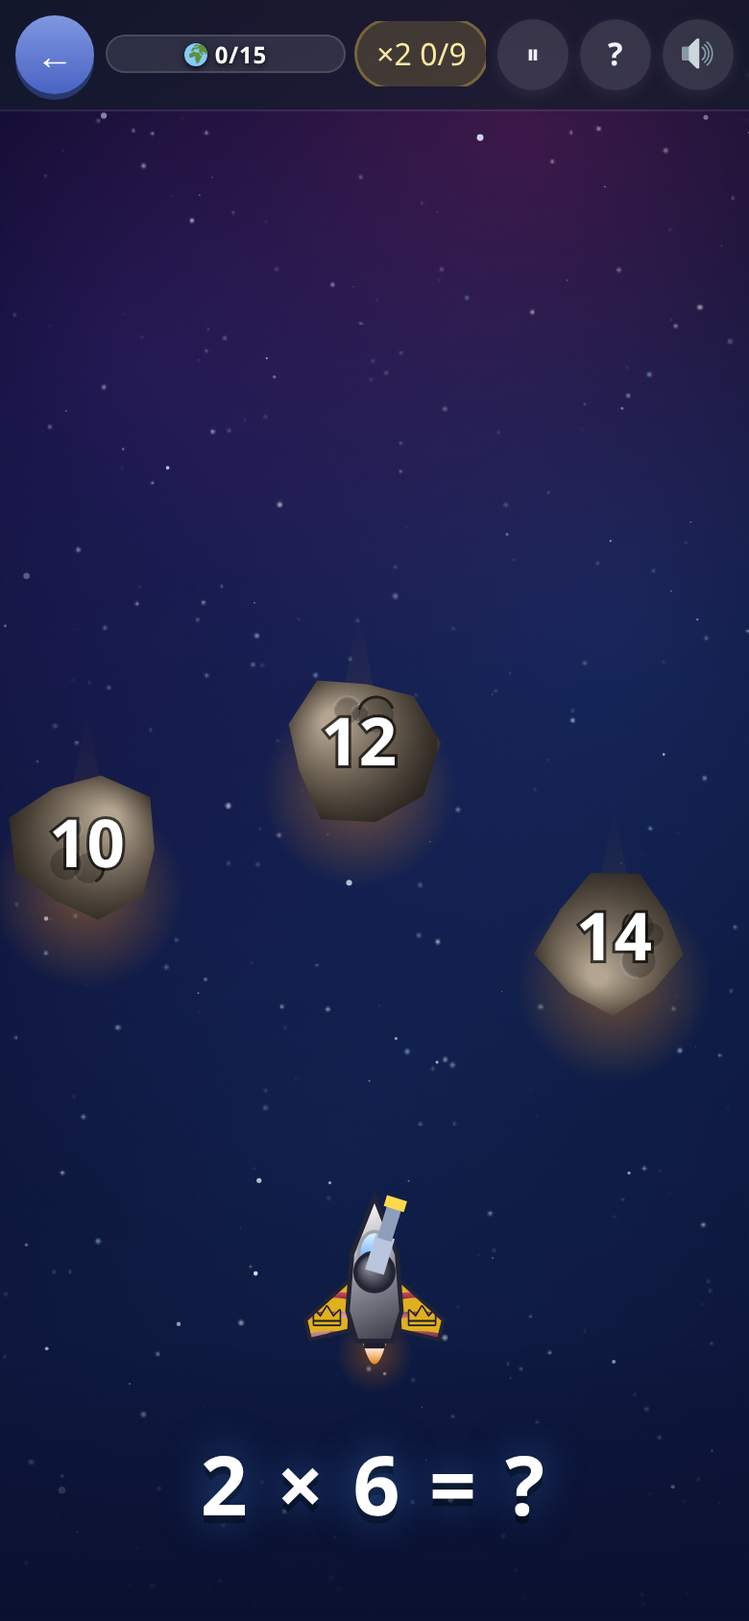
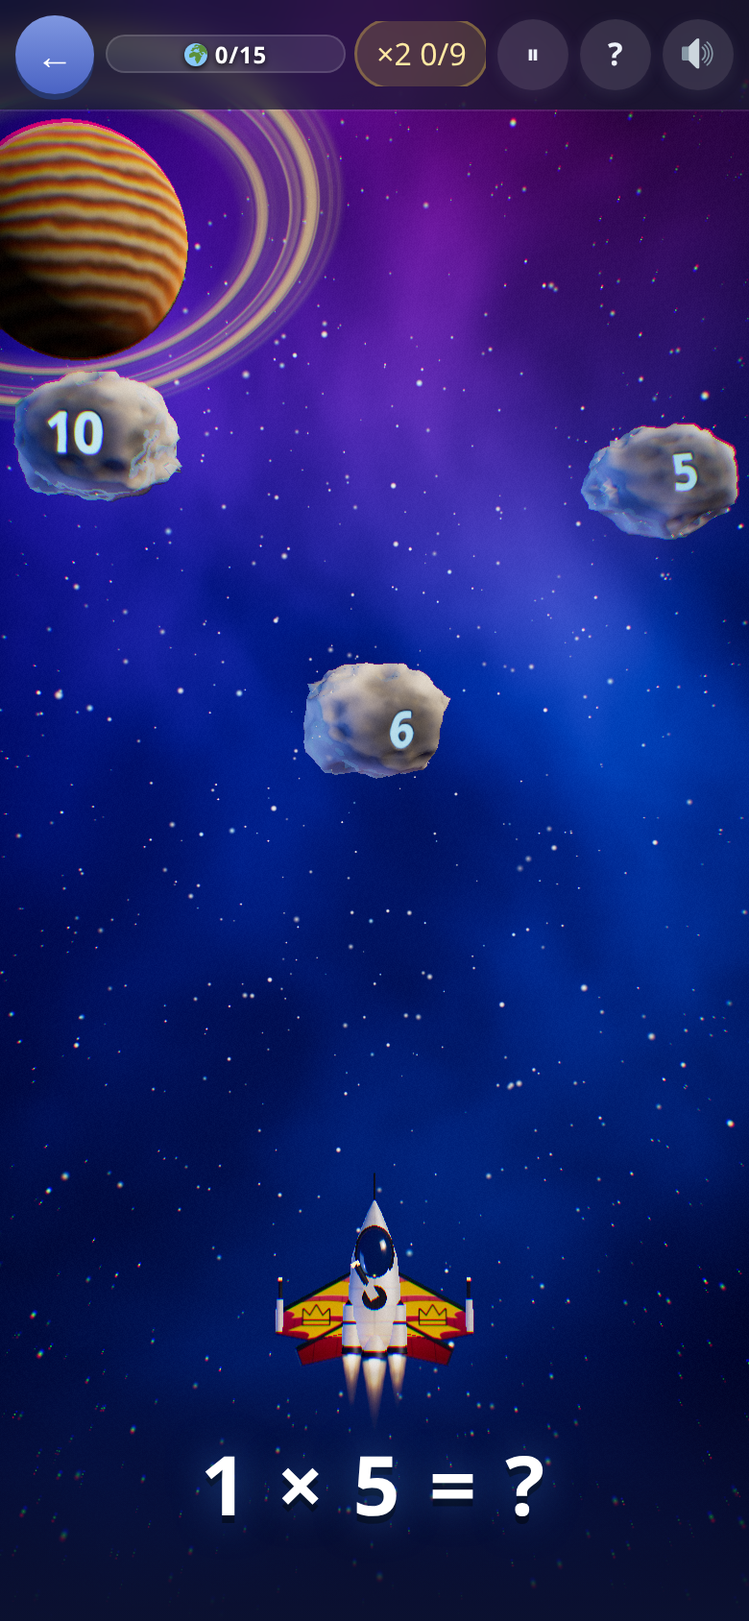
Documenti degli Asteroidi senza la versione 2D né il nome «Asteroidi 3D»; la foto e la clip del README rifatte (npm run scatti)

diff --git a/docs/asteroidi/grafica-3d.md b/docs/asteroidi/grafica-3d.md
@@ -1,30 +1,8 @@
-# Asteroidi 3D: il cielo in 3D, e i comandi del telefono
+# Il cielo in 3D, e i comandi del telefono
 
-**Asteroidi 3D** (`mate3d`) è accanto agli Asteroidi (dal 16/10/2026, non più dietro i giochi in prova): gli stessi Asteroidi
-disegnati in WebGL con three.js, partendo dal prototipo approvato
-(`poc/asteroidi-3d`, ottobre 2026), per provarlo sui telefoni veri. Gli
-**Asteroidi** di sempre (`mate`) restano com'erano, in 2D e coi comandi di
-prima, per i bambini. Le regole del gioco non cambiano: tempi, ritmi,
-`rispostaEntro`, il cronometro che parte quando il sasso giusto è tutto in
-scena, l'SRS, le vite, i gettoni. Cambiano il disegno e i comandi.
-
-## Un gioco accanto all'altro, la stessa partita
-
-- **La carta c'è per tutti**, accanto a quella degli Asteroidi (la riga di `src/data/giochi.js` non è più
-  `sperimentale`). Resta così "per un po'": avanzamento e sosta sono in comune, quindi i due giochi
-  convivono senza danni, e se il 3D desse problemi basta rimettere `sperimentale: true`.
-- **La stessa vista, un disegno diverso**: `App.vue` monta `MathGame.vue`
-  per `mate3d` col prop `disegno: '3d'`. Senza il prop è il 2D di sempre.
-- **Lo stesso avanzamento**: la chiave della campagna resta `mate` (tappe,
-  stelle, hangar, record del volo, monete, sosta). Un gioco non aggiunge
-  campi al profilo, e due copie dello stesso avanzamento si separerebbero.
-  La sosta è una sola: una partita lasciata nel 3D si riprende anche dal 2D
-  e viceversa (i sassi non si salvano, il disegno non conta). La fila e
-  l'età si leggono uguali (`mate3d` in `TAPPE_DEL_GIOCO` e
-  `CONTATORE_VECCHIO` di `portata-giochi.js`).
-- **I comandi nuovi sono solo del 3D** (`comandiNuovi`): negli Asteroidi di
-  sempre si tocca solo sopra il sasso, la nave sta ferma, niente scudo, e i
-  falsi nascono come prima.
+Gli Asteroidi (`mate`) si disegnano in WebGL con three.js, partendo dal prototipo approvato (`poc/asteroidi-3d`, ottobre 2026),
+coi comandi del telefono: la nave si guida col dito e ha lo scudo. Le regole del gioco sono quelle di [volo.md](volo.md): tempi,
+ritmi, `rispostaEntro`, il cronometro che parte quando il sasso giusto è tutto in scena, l'SRS, le vite, i gettoni.
 
 ## Dove sta cosa
 
@@ -39,11 +17,11 @@ scena, l'SRS, le vite, i gettoni. Cambiano il disegno e i comandi.
 | `src/grafica/spazio3d/madre.js` | la nave madre col comandante |
 | `src/grafica/spazio3d/effetti.js` | scintille e fumo, anelli, raggi, cocci |
 | `src/motore/asteroidi/comandi.js` | quale sasso tocca il dito, il falso che urta la nave, le quote dei falsi (puro) |
-| `src/views/MathGame.vue` | col prop `disegno` sceglie chi disegna (`accendi3d`), passa la scena (`disegna3d`), guida la nave |
+| `src/views/MathGame.vue` | accende la tela (`accendi3d`), le passa la scena (`disegna3d`), guida la nave |
 
 ## Chi gioca non disegna
 
-- **La view passa la stessa scena al 3D e al 2D**: nave, sassi, nave madre,
+- **La view passa la scena al pittore**: nave, sassi, nave madre,
   raggi, anelli, particelle, cocci, in pixel dello schermo (`quadro` in
   `MathGame.vue`, un oggetto solo rinfrescato a ogni fotogramma). Il 3D la
   traduce: il piano z = 0 è lo schermo e un pixel vale `K` = 0,01 unità,
@@ -58,21 +36,17 @@ scena, l'SRS, le vite, i gettoni. Cambiano il disegno e i comandi.
   posti, i punti stanno in due `Points` (scintille e fumo), i cocci in un
   `InstancedMesh`.
 
-## Il disegno di riserva
+## Il contesto perso
 
-- **Se WebGL 2 non c'è, o il contesto si perde, si gioca col 2D di
-  sempre** (`grafica/spazio.js`, `cieli.js`, `nave-madre.js`): stesse
-  regole, stessi comandi. Il contesto si chiede a mano prima di three, così
-  senza WebGL non esce niente in console.
-- Negli Asteroidi 3D il 2D fa da riserva finché non si sa che i telefoni
-  veri reggono il 3D; `#tela=2d` lo chiede apposta.
-- La rotta e l'hangar restano in 2D (la nave piccola di `disegnaNave`):
-  il 3D legge la stessa `livrea`.
-- Sotto la rotta e «Cosa so», che coprono tutto, la tela 3D non disegna.
+- **Se il contesto WebGL si perde** (il telefono toglie la memoria alla GPU) il cielo si ferma e compare un tasto che lo
+  riaccende su una tela nuova (un canvas non riprende un contesto perso); la partita intanto resta com'è. Lo stesso, al primo
+  tentativo, se WebGL non c'è.
+- La rotta e l'hangar disegnano la nave piccola in 2D (`disegnaNave` di `grafica/spazio.js`, con le stesse sagome e la stessa
+  `livrea`); la nave grande dell'hangar è quella del pittore 3D.
+- Sotto la rotta e «Cosa so», che coprono tutto, la tela non disegna.
 
 ## I comandi
 
-Come sul telefono, negli Asteroidi 3D (anche quando disegna il 2D di riserva):
 
 - **Premere sopra un sasso, o appena fuori dal bordo** (1,15 del raggio,
   mai meno di 22 px: `TOCCO`), spara a quello: è la risposta, giusta o
@@ -129,24 +103,22 @@ sassi cambia col posto.
 
 ## La nave
 
-- **Le sagome sono quelle del 2D** (`ali`, `strappa`, `SCHEGGE`,
+- **Le sagome sono quelle della nave piccola** (`ali`, `strappa`, `SCHEGGE`,
   `PROPULSORI` di `spazio.js`), estruse: lo strappo è lo stesso, coi denti
-  dove li ha il 2D.
+  negli stessi posti.
 - **I tre stati**: intatta · l'ala sinistra strappata col bordo che arde, i
   due cocci che galleggiano, le scintille, la spia ambra · lo strappo che
   si mangia l'ala, il vetro crepato e rosso, la spia rossa doppia, l'alone
   d'allarme, il motore sinistro a singhiozzo. Il fumo è quello della view.
-- **Le stazze**: navetta (un motore), caccia (due, coi pod in punta d'ala),
-  incrociatore (tre, e la seconda coppia d'ali).
+- **La nave è l'incrociatore** (tre motori e la seconda coppia d'ali) dal primo livello; le sagome della navetta e del caccia
+  restano in `spazio.js`.
 - **La livrea si dipinge sulle ali** con `dipingiAla` e `disegnaStemma` di
   `livrea.js`, su una tela per lato che fa da colore all'ala: lo stemma se
   ne va col pezzo strappato. Scafo, ali e fiamme prendono le tinte di
   `tinteNave`; le tinte lucide fanno il metallo lucido.
 - Botta rossa, riparazione verde, scudo esagonale col gelo.
 
-- **L'hangar usa lo stesso pittore** quando il gioco è in 3D (`tre` in
-  `components/HangarAsteroidi.vue`): una scena con la sola nave sul suo cielo; senza
-  WebGL resta il disegno 2D. Lo scafo a tornio va dal basso al muso: nell'altro verso
+- **L'hangar usa lo stesso pittore** (`components/HangarAsteroidi.vue`): una scena con la sola nave sul suo cielo. Lo scafo a tornio va dal basso al muso: nell'altro verso
   le facce guardano dentro e si vede l'interno dello scafo dietro le ali.
 
 ## Quanto costa
@@ -172,12 +144,12 @@ sassi cambia col posto.
 
 Nei test: `unita/asteroidi-3d` (il dito, l'urto, le quote dei falsi, le
 forme di ogni specie), `integrazione/asteroidi-3d` (col dito vero: il 3D
-acceso e quanto costa, la carta anche coi giochi in prova spenti, il tocco sul
+acceso e quanto costa, una carta sola anche coi giochi in prova spenti, il tocco sul
 giusto, il vuoto che guida, il trascinare, appena fuori dal bordo, lo scudo,
-il giusto addosso alla nave, gli Asteroidi di sempre in 2D, il 2D senza
-WebGL). Bersagli: la tela `[data-tela="3d"|"2d"]`; `window.__mate.grafica()`
+il giusto addosso alla nave, senza WebGL il tasto che riaccende). Bersagli: la tela `[data-tela="3d"]`, il tasto
+`[data-riaccendi-tela]`; `window.__mate.grafica()`
 (`tre`, `chiamate`, `triangoli`, `dpr`, `ms`, `scena`, `disegno`);
 `window.__mate.nave` (`meta`, `urti`, `scudo`); sui sassi `respinto`,
-`rosso`, `urtato`. Il cheat `#mate3d=<tappa>` (o `#mate=` per il 2D; `volo`, `&livello=`, `&vite=`,
-`&madre=1`, `&nave=scafo:oro,…`, `&tela=2d`, `&dpr=2`) in
+`rosso`, `urtato`. Il cheat `#mate=<tappa>` (`volo`, `&livello=`, `&vite=`,
+`&madre=1`, `&nave=scafo:oro,…`, `&dpr=2`) in
 [../core/comandi.md](../core/comandi.md).

diff --git a/docs/core/comandi.md b/docs/core/comandi.md
@@ -183,7 +183,7 @@ posto della home e `.carte` non arriva.
 | `#preparati=1` | con `sotterraneo=1&eroe=mago&giu=2`: l'eroe impara gli incantesimi che si preparano dal campo, ha il globo pieno e li lancia (`&preparati=scudo-arcano,rovi` solo quelli, `&preparati=impara` li impara e basta); con `&sotterraneo=branco&mostri=3` lo scontro comincia già protetto ([../sotterraneo/orologio.md](../sotterraneo/orologio.md)) |
 | `#abisso=12` | l'abisso da quel piano |
 | `#seme=812` | il sotterraneo con quel seme, per rivedere una discesa |
-| `#mate=5` | apre la tappa 5 della fila degli asteroidi (da 0; `#mate=volo` il volo; `#mate3d=5` lo stesso negli Asteroidi 3D, anche coi giochi in prova spenti), anche chiusa, per guardarla senza giocare: `&livello=7` la nave e (nel volo) il cielo di quel livello, `&vite=1` la nave malconcia, `&madre=1` la nave madre subito, `&nave=scafo:oro,ali:viola,disegno:fiamme,stemma:stella` una vernice solo per guardarla (l'hangar non si tocca), `&tela=2d` il disegno di riserva, `&dpr=2` il 3D a pixel ratio fisso (per le foto: in Chrome senza schermo scenderebbe). `node strumenti/scatta-app.mjs 'mate3d=2&dpr=2' --dist --tocca '.cartello' --attesa 6000` ([../asteroidi/grafica-3d.md](../asteroidi/grafica-3d.md)) |
+| `#mate=5` | apre la tappa 5 della fila degli asteroidi (da 0; `#mate=volo` il volo), anche chiusa, per guardarla senza giocare: `&livello=7` la nave e (nel volo) il cielo di quel livello, `&vite=1` la nave malconcia, `&madre=1` la nave madre subito, `&nave=scafo:oro,ali:viola,disegno:fiamme,stemma:stella` una vernice solo per guardarla (l'hangar non si tocca), `&tela=2d` il disegno di riserva, `&dpr=2` il 3D a pixel ratio fisso (per le foto: in Chrome senza schermo scenderebbe). `node strumenti/scatta-app.mjs 'mate3d=2&dpr=2' --dist --tocca '.cartello' --attesa 6000` ([../asteroidi/grafica-3d.md](../asteroidi/grafica-3d.md)) |
 | `#sotterraneo3d=1` | il Sotterraneo 3D già giù in quella discesa (l'indice della storia, `abisso`, o la chiave di uno dei tredici dungeon del mondo, come `cerchio`: [../sotterraneo/dungeon-che-si-rigenerano.md](../sotterraneo/dungeon-che-si-rigenerano.md)), anche coi giochi in prova spenti; vanno gli altri cheat del sotterraneo (`&eroe=`, `&seme=`, `&stanza=sala&luce=stanza`, `&sotterraneo=branco&mostri=3`, `&piano=`, `&abisso=12`), più `&dpr=1` (il pixel ratio fisso, per le foto), `&tela=niente` (finge un telefono senza WebGL), `&pensieri=no` (niente pensieri dell'eroe, anche nel 2D: [../sotterraneo/pensieri.md](../sotterraneo/pensieri.md)), `&spegni=nebbia,post` (spegne pezzi di `ACCESI`, per misurare quanto costano; anche gli elementi della scena, `&spegni=pavimento,pareteVicina,torcia,mostri`, e le leve semplici `&spegni=ombre,rilievo,nebbiaFitta,quantaPolvere:0.4`: [vecchio-telefono-elementi.md](vecchio-telefono-elementi.md); `&spegni=lucePerVertice` toglie la luce per vertice della bassa), `&riaccendi=ombre` (rimette quello che la fascia spegne, per confrontare; `&qualita=bassa&riaccendi=lucePerVertice` è la bassa di prima della luce per vertice) e `&scenario=ghiaccio` (la discesa vestita da quel paesaggio, coi suoi numeri: `grotta`, `neve`, `ghiaccio`, `palude`, `tempio`, `miniera` o uno dei quattro del motore; [../sotterraneo/paesaggi-3d.md](../sotterraneo/paesaggi-3d.md)). `node strumenti/scatta-app.mjs 'sotterraneo3d=1&eroe=cavaliere&seme=7&dpr=1&stanza=sala&luce=stanza' --dist --aspetta 5000 --stampa 'window.__sotterraneo3d.grafica()'` ([../sotterraneo/grafica-3d.md](../sotterraneo/grafica-3d.md)) |
 | `#sotterraneo3d=1&sprite` (`&eroe2d`) | il Sotterraneo 3D coi mostri sprite invece dei modelli 3D (e con `eroe2d` l'eroe sprite); `&spegni=mostri3d:6` tiene il modello solo ai sei più vicini, `&spegni=effetti3d` toglie gli effetti 3D, `&spegni=aloni,saldatura,chiarori,ombreMorbide` gli aloni della roba, la saldatura delle mesh ferme, i chiarori per terra e le macchie d'ombra di sopra (solo per misurare: [../sotterraneo/limiti-3d.md](../sotterraneo/limiti-3d.md)); `window.__sotterraneo3d.prova('palla', 0)` o `prova('mostro', 1)` per guardare un effetto o un attacco ([../sotterraneo/mostri-3d.md](../sotterraneo/mostri-3d.md)) |
 | `#sotterraneo3d=1&icone2d` | il Sotterraneo 3D con le immagini dei pannelli (zaino, botteghe, ritratto, fila dei turni) sprite come nel 2D invece delle anteprime 3D ([../sotterraneo/anteprime-3d.md](../sotterraneo/anteprime-3d.md)) |

diff --git a/docs/core/vecchio-telefono.md b/docs/core/vecchio-telefono.md
@@ -1,7 +1,7 @@
 # Il vecchio telefono: il metro dei giochi 3D
 
 Il metro di paragone è il **Redmi Note 7 della bambina** (Snapdragon 660, Adreno 512, 1080×2340, 393×851 a pixel ratio 2,75). Su
-quel telefono le esplosioni degli Asteroidi 3D e tutto il Sotterraneo 3D vanno a scatti: un gioco 3D è abbastanza leggero
+quel telefono le esplosioni degli Asteroidi e tutto il Sotterraneo 3D vanno a scatti: un gioco 3D è abbastanza leggero
 quando lì resta sotto i ~30 ms a fotogramma. Sul computer (RTX, 20 core) non si vede niente, quindi lo si rallenta:
 `node strumenti/vecchio-telefono.mjs` (le opzioni in testa al file).
 
@@ -39,7 +39,7 @@ vengono dai log veri: Redmi Note 7 = 52 punti (bassa), iPhone 12 Pro Max = 23 e 
 fuori dai profili (chiave `qualita`) e la rifà dopo 30 giorni, se cambia il pixel ratio dello schermo o se si alza
 `VERSIONE_MISURA`. Parte da sola in home dopo 4 secondi (mai sotto automazione: `navigator.webdriver`).
 
-Cosa cambia una fascia sta tutto in `PROFILI` di `store/qualita.js`: negli Asteroidi 3D il pixel ratio di partenza (2 / 1,5 / 1),
+Cosa cambia una fascia sta tutto in `PROFILI` di `store/qualita.js`: negli Asteroidi il pixel ratio di partenza (2 / 1,5 / 1),
 il tetto delle scintille (1400 / 700 / 350) e del fumo, e quanto in fretta il gioco scende di pixel (90 fotogrammi lenti a passo
 ×0,85 contro 20 a ×0,75); nel Sotterraneo 3D il pixel ratio massimo (1,5 / 1,25 / 1), le fette di nebbia (5 / 3 / 2) e, nella bassa, il passaggio finale
 spento, due luci dei fuochi invece di sei, niente luci del rimbalzo e del palco (lampo e magia in una), l'ombra a 512 a fotogrammi
@@ -76,7 +76,7 @@ Contro un Pixel 9a (ms per scena): CPU 4,3 volte più lenta (469 contro 108); sh
 23,7 contro 7,6; 8 strati a schermo intero a pixel ratio vero 26,9 contro 9,1; 400 chiamate 19,6 contro 9. Pixel semplici,
 triangoli e passaggio finale solo il doppio. L'iPhone 12 Pro Max (pixel ratio 3) paga comunque 22 ms le sfumature a schermo intero.
 
-**Il perché degli Asteroidi 3D** (da `grafica/spazio3d/`): parte a pixel ratio 2 (`DPR_START`), fino a 1400 scintille additive
+**Il perché degli Asteroidi** (da `grafica/spazio3d/`): parte a pixel ratio 2 (`DPR_START`), fino a 1400 scintille additive
 più 400 di fumo fino a ~50 px, dipinte su una tela half-float e poi un passaggio finale a schermo intero con tre letture
 della tela e la grana. Sul Note 7 le sole scintille a pixel ratio 1,5 costano già 24 ms e a 2 sono ~1,8 volte i pixel: da
 sole oltre il fotogramma. Il gioco abbassa il pixel ratio solo dopo 90 fotogrammi lenti, a passi di ×0,85: durante
@@ -88,7 +88,7 @@ un'esplosione non fa in tempo. **Sul Sotterraneo** il guaio probabile è la nebb
 
 ```bash
 node strumenti/vecchio-telefono.mjs 'sotterraneo3d=1&seme=7' --cpu 1,5 --zavorra 0,32 --secondi 10
-node strumenti/vecchio-telefono.mjs 'mate3d=3&volo' --esegui '<scatena le esplosioni>' --tocca 200,500
+node strumenti/vecchio-telefono.mjs 'mate=3&volo' --esegui '<scatena le esplosioni>' --tocca 200,500
 ```
 
 Una riga per ogni combinazione: fps, p50/p95/p99 fra due fotogrammi, quanti sopra 33 e 50 ms, e `grafica()` del gioco (pixel
@@ -142,7 +142,7 @@ sotto i 45 la misura «Misura questo telefono» non basta più: serve la scheda 
 
 ## Cosa può dare problemi (e cosa si è visto)
 
-**Nell'emulazione** (SwiftShader, CPU ×2,8 su tutti i core, quindi più lenta di una taratura giusta di quanto il computer fosse carico; 392×774 a 2,75: i valori sono da rifare con `--core 4` e CPU ×5), Asteroidi 3D, p50 di un fotogramma: fascia alta (pixel ratio 2) 83 ms,
+**Nell'emulazione** (SwiftShader, CPU ×2,8 su tutti i core, quindi più lenta di una taratura giusta di quanto il computer fosse carico; 392×774 a 2,75: i valori sono da rifare con `--core 4` e CPU ×5), Asteroidi, p50 di un fotogramma: fascia alta (pixel ratio 2) 83 ms,
 media 50, bassa (pixel ratio 1) 33: il pixel ratio è la leva che conta, il resto no. **Senza esplosioni è lo stesso**: l'emulazione
 sovrastima la scena di base (triangoli e passaggio finale ×2-4 contro il Note 7), quindi non separa le esplosioni; sul computer vero
 (RTX, nessun rallentamento) un'esplosione ogni 0,5 s porta da 59 a 39-51 fps. Il JS che prepara il fotogramma sta sotto il mezzo

diff --git a/docs/asteroidi/cieli.md b/docs/asteroidi/cieli.md
@@ -9,9 +9,9 @@ un numero per sasso, uno giusto, scendono dritti.
 | file | cosa tiene |
 |---|---|
 | `src/data/asteroidi.js` | quale cielo ha ogni tappa (`cieloDi`, per codice `p3`/`m5` e non per posto), e quale il volo a ogni livello (`voceDelVolo`, `cieloDelVolo`) |
-| `src/grafica/cieli.js` | le tavolozze dei fondali, la specie di sasso di ogni cielo (`CIELI`, `specieDi`), i sassi (`disegnaSasso`), il Sole e il buco nero che si muovono (`disegnaSfondoVivo`) |
+| `src/grafica/cieli.js` | le tavolozze dei fondali e la specie di sasso di ogni cielo (`CIELI`, `specieDi`), il colore dei cocci |
 | `src/views/MathGame.vue` | sceglie il cielo a inizio partita e a ogni livello del volo (`mettiCielo`), dà a ogni sasso `specie` e `seme` |
-| `src/grafica/spazio3d/` | lo stesso in 3D: il fondale cotto, le forme di ogni specie, il pianeta, il Sole e il buco nero ([grafica-3d.md](grafica-3d.md#ogni-posto-ha-il-suo-cielo)) |
+| `src/grafica/spazio3d/` | il disegno: il fondale cotto, le forme di ogni specie, il pianeta, il Sole e il buco nero ([grafica-3d.md](grafica-3d.md#ogni-posto-ha-il-suo-cielo)) |
 
 ## I cieli
 
@@ -26,7 +26,7 @@ un numero per sasso, uno giusto, scendono dritti.
 | `sole` | lava, col Sole in alto | il Sole |
 | `nero` | sassi scuri col bordo viola, il buco nero in alto | «La prova», e il volo oltre la fila |
 
-- **Il disegno non tradisce la risposta**: `disegnaSasso` (e il 3D) non
+- **Il disegno non tradisce la risposta**: le forme di `spazio3d/` non
   guarda mai `a.ok`, e tutti i sassi di un'ondata sono della stessa specie.
 - **Un sasso si disegna dal suo `seme`**: forma, crepe e tipo di rottame
   escono da un generatore col seme, mai da `Math.random` nel disegno, se no

diff --git a/docs/asteroidi/volo.md b/docs/asteroidi/volo.md
@@ -135,15 +135,14 @@ Quello che esce, per livello (misurato in `misure/asteroidi`):
   rossa che batte il doppio. Quello che si legge di sfuggita è qualcosa
   che si muove, un buco nel contorno e dei pezzi staccati. Provato: l'ala
   che si accorcia — non c'è niente con cui confrontarla, e non dice
-  *rotta*. (`statoScafo`, `puntoRotto` in `src/grafica/spazio.js`; in 3D
-  le stesse sagome, [grafica-3d.md](grafica-3d.md))
-- **La nave cresce col livello**: navetta, al 3 caccia, al 6 incrociatore. **Negli Asteroidi 3D no**: è
-  sempre l'incrociatore, dal primo livello, e le vite di scorta (sopra `CFG.vite`) si leggono come uno
+  *rotta*. (`statoScafo`, `puntoRotto` in `src/grafica/spazio.js`; la nave
+  in 3D ha le stesse sagome, [grafica-3d.md](grafica-3d.md))
+- **La nave è sempre l'incrociatore**, dal primo livello, e le vite di scorta (sopra `CFG.vite`) si leggono come uno
   **scudo sempre acceso**, più forte con più scorta; finite quelle, lo scudo se ne va e restano lo
   strappo e il fumo (`scorta` in `nave`, deciso il 16/10/2026).
-- **`src/grafica/spazio.js` (e `spazio3d/`) non sa di vite né di punti**:
+- **`src/grafica/spazio3d/` (e `spazio.js`) non sa di vite né di punti**:
   riceve fatti già decisi (`danno: 0.5`).
-- **Negli Asteroidi 3D (in prova) la nave si guida col dito** e si risponde
+- **La nave si guida col dito** e si risponde
   toccando il sasso; un falso che la tocca rimbalza sullo scudo senza
   costare niente, il giusto che la tocca esplode e costa come arrivare in fondo
   ([grafica-3d.md](grafica-3d.md#i-comandi)). Il pianeta in basso non c'è: una cosa in

diff --git a/docs/core/grafica.md b/docs/core/grafica.md
@@ -30,12 +30,10 @@ entrano energia e prezzi: solo fatti già decisi (`potenziabile: true`).
   `giochi/castello/scena/`, sulla carta a scacchiera del motore
   (`motore/castello/carta.js`). Il castello a poligoni che c'era prima è
   stato tolto il 29 settembre 2026.
-- **`spazio.js`** — il cielo degli asteroidi (nave, pianeta, sassi, raggi):
-  riceve `danno: 0.5`, non sa che esistano le vite. Gli Asteroidi 3D (gioco
-  in prova) disegnano invece con **`spazio3d/`**, il solo 3D del gioco
-  (three.js, WebGL 2), che riceve dalla view la stessa scena in pixel e la
-  traduce in mondo; senza WebGL tornano a `spazio.js`
-  ([../asteroidi/grafica-3d.md](../asteroidi/grafica-3d.md)). Il Sotterraneo 3D (gioco in prova) ha il suo
+- **`spazio3d/`** — il cielo degli asteroidi (three.js, WebGL 2): riceve
+  dalla view la scena in pixel e la traduce in mondo; riceve `danno: 0.5`,
+  non sa che esistano le vite. `spazio.js` disegna la nave piccola della
+  rotta e dell'hangar ([../asteroidi/grafica-3d.md](../asteroidi/grafica-3d.md)). Il Sotterraneo 3D (gioco in prova) ha il suo
   3D accanto al gioco, `giochi/sotterraneo/scena3d/`: la discesa del motore vero in WebGL, con le
   figure dell'atlante istanziate e la maschera del visto ([../sotterraneo/grafica-3d.md](../sotterraneo/grafica-3d.md)).
 - **`corpo.js`** — **lo scheletro**: `persona()` per chi cammina su due

diff --git a/docs/core/vecchio-telefono-veri.md b/docs/core/vecchio-telefono-veri.md
@@ -31,7 +31,7 @@ bassi del vero. Qui niente lettura (`TEMPI.fps`, `vero`): si contano solo gli in
 | `fps-villaggio` | l'eroe gira attorno alla piazza alla velocità del gioco, con le persone del villaggio | `veri/sopra-vero.js` |
 | `fps-prato` | lo scontro sul prato davanti alla tana del primo luogo, aperto come lo apre il gioco (motore/aperta.js, palco di sopra), 3 mostri e i colpi | `veri/sopra-vero.js` |
 | `fps-fat-10`, `fps-fat-30` | la fattoria «tipo» del livello 10 e del 30, col degrado del gioco acceso | `veri/fattoria.js`, `opz.degrado` |
-| `fps-ast`, `fps-ast-boom` | gli Asteroidi 3D su una partita finta: 8 sassi, la nave, la nave madre; e lo stesso con un'esplosione al secondo (scintille sotto il tetto della fascia, l'anello, la scossa) | `veri/asteroidi.js`, `boom` |
+| `fps-ast`, `fps-ast-boom` | gli Asteroidi su una partita finta: 8 sassi, la nave, la nave madre; e lo stesso con un'esplosione al secondo (scintille sotto il tetto della fascia, l'anello, la scossa) | `veri/asteroidi.js`, `boom` |
 
 Otto secondi di misura dopo il rodaggio, un riferimento del calore solo (un gruppo). **Nel resoconto** una riga per scena: `ok`/`~`/`XX`
 (sopra 50, sopra 30, sotto 30 fps), gli fps, la parte di fotogrammi arrivati dopo più di 34 ms (sotto i 30 fps), il p95 dell'intervallo e

diff --git a/docs/asteroidi/da-fare.md b/docs/asteroidi/da-fare.md
@@ -13,11 +13,9 @@ ancora giudicato col dito: si guardano giocando, dopo una build.
   `src/store/calcolo.js` vale anche per le stazioni, che nessuno ha ancora
   giocato con quel numero: va guardato se otto domande su dieci sul
   concetto nuovo sono troppe quando il concetto pesa due o tre.
-- **Gli Asteroidi 3D su un telefono vero** ([grafica-3d.md](grafica-3d.md)), gioco in prova: se un
-  telefono di fascia media regge i sessanta fotogrammi, se il pixel ratio
-  scende (e quanto), se i numeri dei dischi volanti si leggono a sei sassi,
-  e se il 2D di riserva si può togliere. Poi: se prende il posto degli
-  Asteroidi di sempre, e con loro i comandi nuovi.
+- **Il cielo in 3D sul Note 7** ([grafica-3d.md](grafica-3d.md)): gli fps veri hanno il volo e il volo con le esplosioni
+  (`fps-ast`, `fps-ast-boom`, [../core/vecchio-telefono-veri.md](../core/vecchio-telefono-veri.md)); da guardare se il pixel ratio
+  scende (e quanto) e se i numeri dei dischi volanti si leggono a sei sassi.
 - **I cieli, la nave madre e l'hangar** ([cieli.md](cieli.md), [boss.md](boss.md),
   [hangar.md](hangar.md)). Da guardare col dito: se il Sole e il buco nero in
   alto sono troppo grandi; se la nave madre, in alto, copre le bombe che

diff --git a/docs/asteroidi/hangar.md b/docs/asteroidi/hangar.md
@@ -27,9 +27,9 @@ rotta, sempre: anche senza pezzi regalati si vede la nave di serie.
   che non ce ne sia uno che nessuno regala.
 - **La nave scelta è la stessa dappertutto**: in partita, sulla rotta (il
   razzo), nell'hangar. La tela riceve la `livrea`, cioè colori e forme già
-  decisi, e non sa niente di pezzi o regali. Negli Asteroidi 3D (in prova)
-  la livrea si dipinge sulle ali della nave 3D con gli stessi pittori
-  ([grafica-3d.md](grafica-3d.md#la-nave)); la rotta e l'hangar restano 2D.
+  decisi, e non sa niente di pezzi o regali. In partita e nell'hangar la
+  livrea si dipinge sulle ali della nave 3D con gli stessi pittori
+  ([grafica-3d.md](grafica-3d.md#la-nave)); sulla rotta il razzo è il disegno piccolo in 2D.
 - **Il danno sta sopra la livrea**: il disegno e lo stemma si dipingono
   dentro l'ala com'è, anche strappata, quindi lo strappo resta leggibile e lo
   stemma se ne va col pezzo. Provato nel mockup: dipinte sopra l'ala intera,

diff --git a/CLAUDE.md b/CLAUDE.md
@@ -92,8 +92,8 @@ Generale), `strumenti/sprite/*.md` (fogli e foglietti degli sprite),
 - **I fine riga sono LF** (`.gitattributes`). Uno script che riscrive un file
   (Python lo fa senza chiedere) non deve cambiarli, se no il diff annega.
 - **Niente dipendenze a runtime oltre a Vue**, con un'eccezione: three.js
-  per gli Asteroidi 3D, il Sotterraneo 3D e la Fattoria 3D, giochi in prova (~640 KB, accettati dall'utente: il
-  3D non si scrive a mano; gli Asteroidi, il Sotterraneo e la fattoria di sempre restano in 2D). Suoni sintetizzati,
+  per gli Asteroidi (solo in 3D), il Sotterraneo 3D e la Fattoria 3D, giochi in prova (~640 KB, accettati dall'utente: il
+  3D non si scrive a mano; il Sotterraneo e la fattoria di sempre restano in 2D). Suoni sintetizzati,
   icone emoji o disegnate, nessun file esterno: il build resta un HTML
   unico. → `docs/asteroidi/grafica-3d.md`
 - **I giochi nuovi stanno in `src/giochi/`** col calco di `codice-segreto/`

diff --git a/docs/sotterraneo/prestazioni-3d-perdite.md b/docs/sotterraneo/prestazioni-3d-perdite.md
@@ -41,7 +41,7 @@ tengono in cache per tutta la pagina (le parti dell'eroe, i materiali dei mostri
 quindi vivi tutti i renderer chiusi: la discesa, il mondo, le anteprime, ognuno col suo contesto non perso (`ctx.via()`
 faceva solo `dispose`), le sue trame e i suoi buffer. **Correzione**: `src/grafica/rilascio3d.js` (`segui` alla nascita del
 renderer annota gli ascoltatori che appende, `rilascia` li toglie, lo butta e perde il contesto), in `scena3d/contesto.js`
-(discese, mondo di sopra, le scene della misura), `anteprime3d.js`, la Fattoria 3D (`mondo3d.js`) e gli Asteroidi 3D.
+(discese, mondo di sopra, le scene della misura), `anteprime3d.js`, la Fattoria 3D (`mondo3d.js`) e gli Asteroidi.
 
 **2. `window.__sotterraneo3d` e `window.__anteprime3d`** restavano sull'ultima scena buttata (per le prove): ora li toglie
 chi la butta (`Gioco.vue`, `viste/anteprima3d.js`).

diff --git a/docs/asteroidi/README.md b/docs/asteroidi/README.md
@@ -9,7 +9,7 @@ Tabelline e calcolo a mente in una fila sola (`src/views/MathGame.vue`).
 - [cieli.md](cieli.md) — ogni tappa ha i suoi sassi, e il volo ripassa la storia
 - [boss.md](boss.md) — la nave madre in fondo alla tappa e nel volo, e i suoi pacchi
 - [hangar.md](hangar.md) — la nave da dipingere coi pezzi regalati
-- [grafica-3d.md](grafica-3d.md) — Asteroidi 3D, il gioco in prova: la stessa partita col cielo in 3D (three.js) e i comandi del telefono (il dito sul sasso risponde, altrove guida la nave, lo scudo)
+- [grafica-3d.md](grafica-3d.md) — il cielo in 3D (three.js) e i comandi del telefono (il dito sul sasso risponde, altrove guida la nave, lo scudo), il contesto perso
 - [sosta.md](sosta.md) — la partita lasciata a metà: cosa si salva, cosa no, e il record del volo
 - [da-fare.md](da-fare.md) — le voci aperte
 
